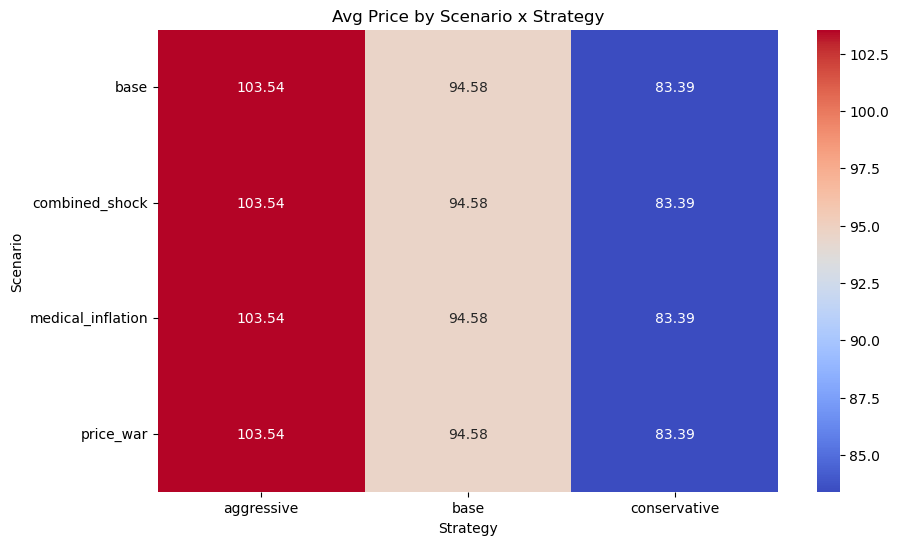
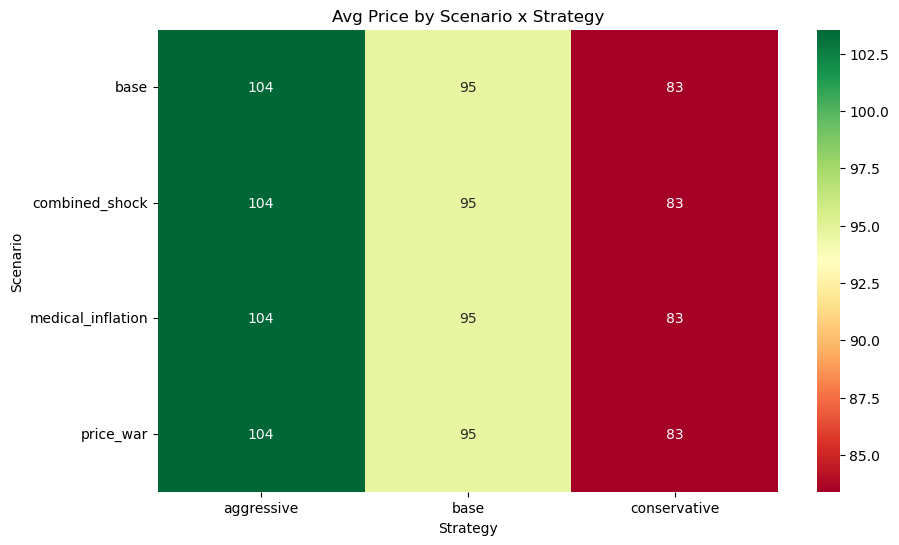
Reporting visuals improved

diff --git a/pricing_engine/evaluation/experiment_reporting.py b/pricing_engine/evaluation/experiment_reporting.py
@@ -15,35 +15,58 @@ def save_experiment_results(results_df, filename="experiment_results.csv"):
     print(f"Experiment results saved to {filename}")
 
 def pivot_experiment_results(results_df, value_cols):
-    pivots = []
-
-    for col in value_cols:
-        pivots.append(
-            results_df.pivot_table(
-                index="scenario",
-                columns="strategy_name",
-                values=col
-            )
+    return {
+        col: results_df.pivot_table(
+            index="scenario",
+            columns="strategy_name",
+            values=col
         )
-
-    return pivots
-
+        for col in value_cols
+    }
 
 def plot_experiment_results(pivot_table, metric_name="avg_price", output_folder="plots"):
-
     os.makedirs(output_folder, exist_ok=True)
-    
+
+    ratio_metrics = {
+        "loss_ratio",
+        "quote_acceptance",
+    }
+
+    # Color map logic
+    if metric_name == "loss_ratio":
+        cmap = "RdYlGn_r"   # green lower is better
+    else:
+        cmap = "RdYlGn"
+        center = None
+
+    # Annotation formatting (metric-based)
+    def format_value(x):
+        if pd.isna(x):
+            return ""
+        if metric_name in ratio_metrics:
+            return f"{x * 100:.0f}%"
+        else:
+            return f"{int(round(x)):,}"
+
+    annot = pivot_table.applymap(format_value)
+
     plt.figure(figsize=(10, 6))
-    sns.heatmap(pivot_table, annot=True, fmt=".2f", cmap="coolwarm")
-    plt.title(f"{metric_name.replace('_',' ').title()} by Scenario x Strategy")
+    sns.heatmap(
+        pivot_table,
+        annot=annot,
+        fmt="",
+        cmap=cmap
+    )
+
+    plt.title(f"{metric_name.replace('_', ' ').title()} by Scenario x Strategy")
     plt.ylabel("Scenario")
     plt.xlabel("Strategy")
-    
+
     plot_file = os.path.join(output_folder, f"heatmap_{metric_name}.png")
     plt.savefig(plot_file, bbox_inches="tight")
     plt.close()
-    print(f"Heatmap saved to {plot_file}")
 
+    print(f"Heatmap saved to {plot_file}")
 
 def summarize_experiments(results_df, output_folder="plots"):
     os.makedirs(output_folder, exist_ok=True)
@@ -58,12 +81,9 @@ def summarize_experiments(results_df, output_folder="plots"):
     pivots = pivot_experiment_results(results_df, values)
 
     for col, pivot_df in pivots.items():
-        # save csv
         pivot_df.to_csv(
             os.path.join(output_folder, f"pivot_{col}.csv")
         )
-
-        # plot
         plot_experiment_results(pivot_df, col, output_folder)
     
 
